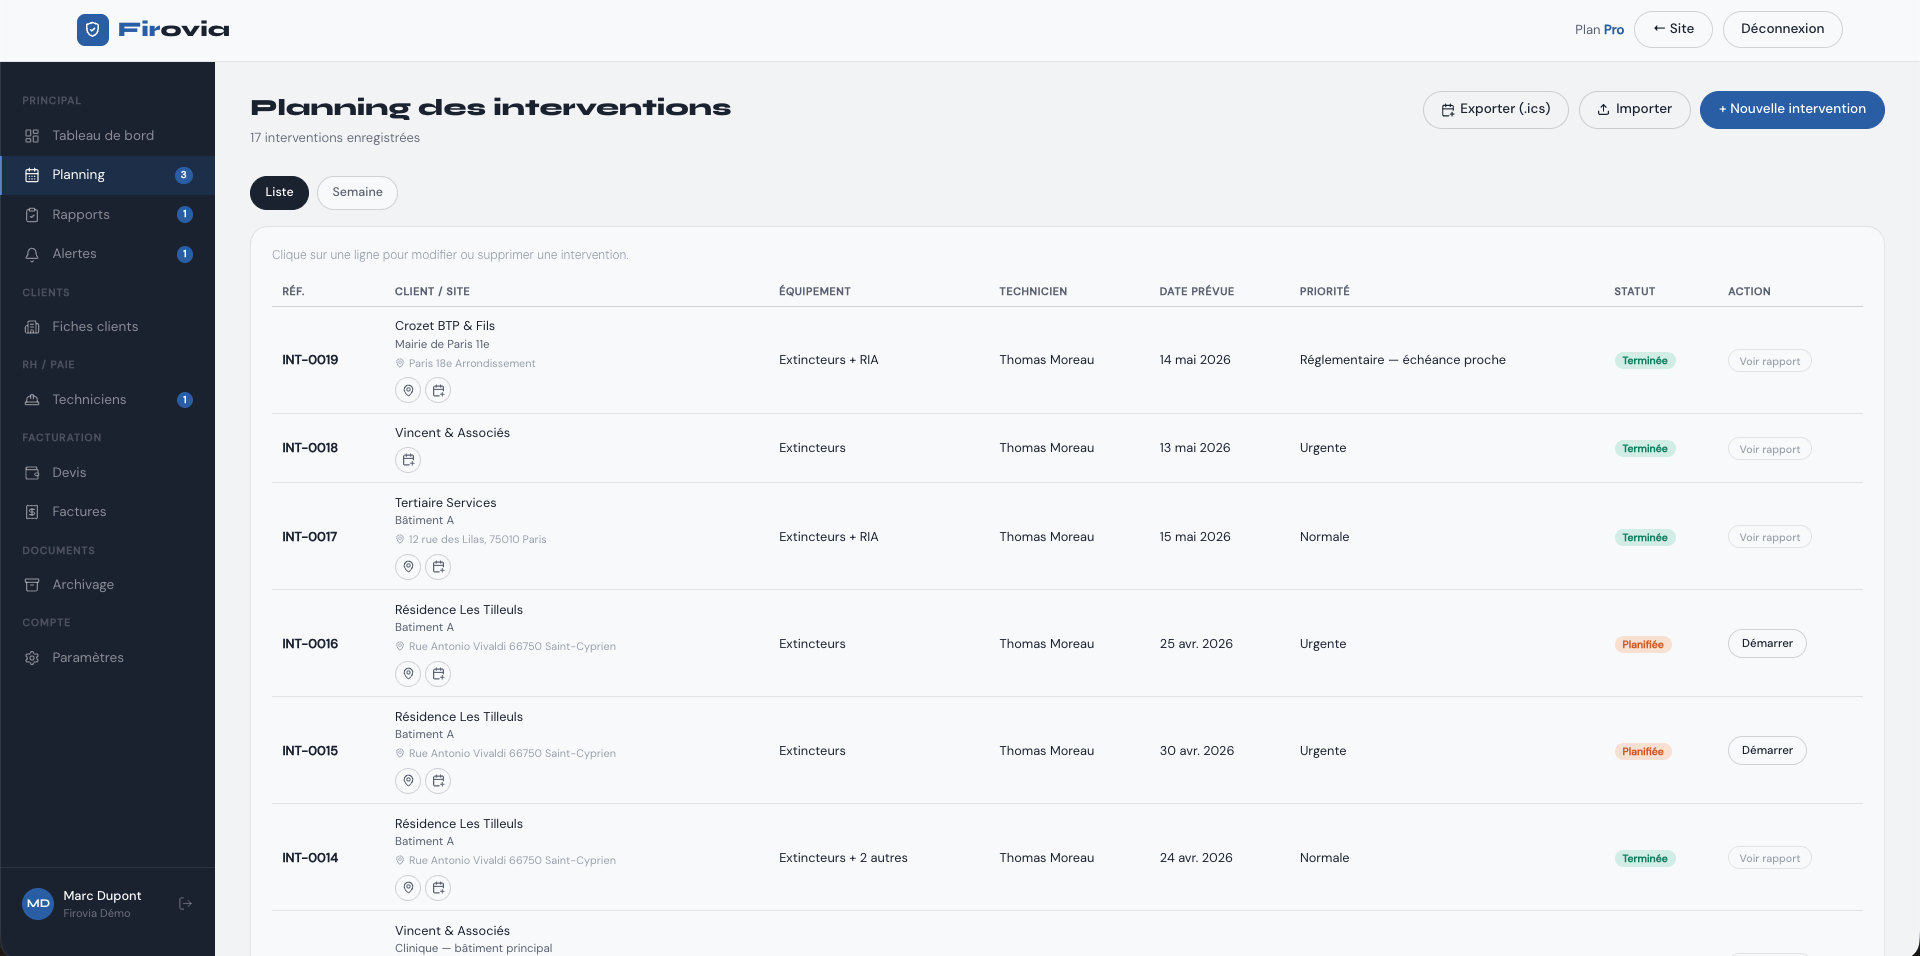
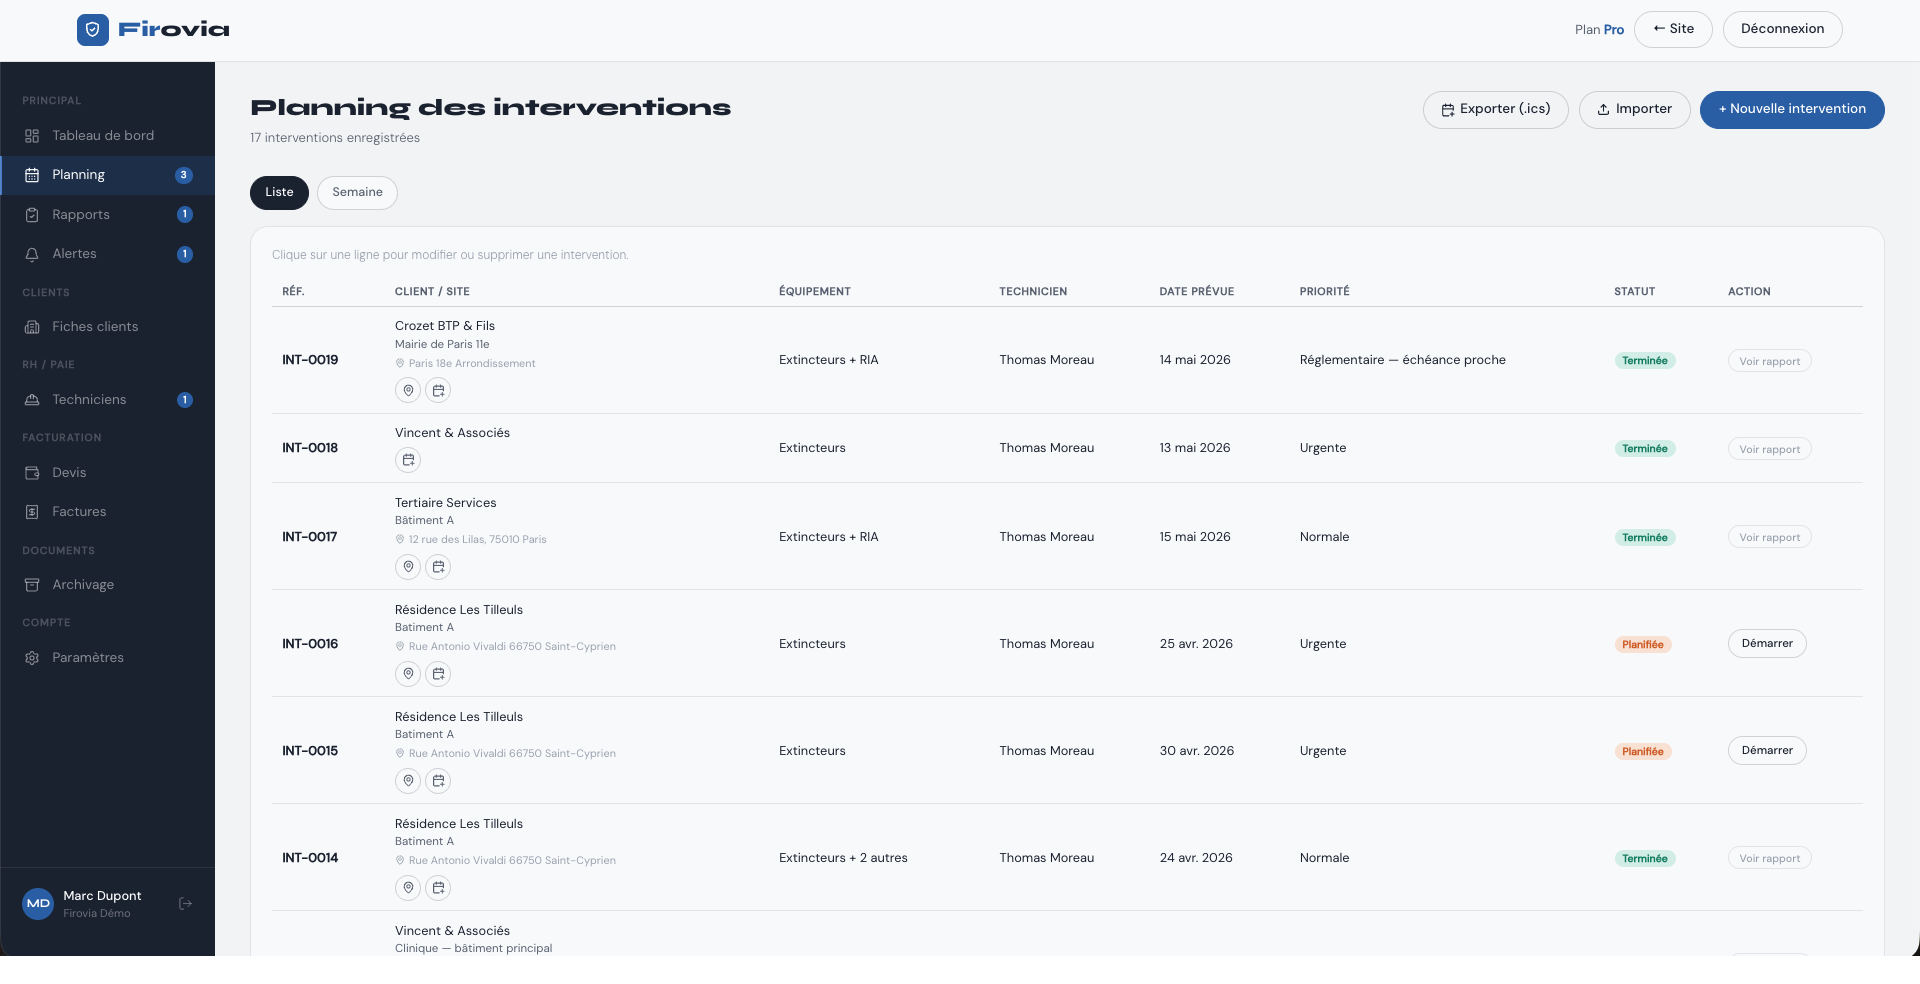
fix(vitrine): planning.png padded à 1920x984 pour uniformiser
PROBLÈME
planning.png faisait 1920x956 (28 pixels plus court que les autres
screenshots à 1920x984). Avec object-fit:contain ça créait des bandes
blanches visibles en haut et en bas dans le showcase.

FIX
- Padding planning.png en bas de 28 pixels blancs via Pillow
- Toutes les images sont maintenant à 1920x984 exact
- object-fit revient à 'cover' (plus besoin de contain, ratios alignés)
- Showcase 100% uniforme entre les 10 onglets

diff --git a/index.html b/index.html
@@ -70,7 +70,7 @@ body{padding-top:65px;}
 .screenshot-sec{padding:1rem 4% 3.5rem;background:var(--bg);}
 .screenshot-wrap{max-width:1200px;margin:0 auto;}
 .screenshot-frame{position:relative;border-radius:14px;overflow:hidden;box-shadow:0 28px 80px rgba(28,33,48,.18), 0 8px 20px rgba(28,33,48,.06);border:1px solid var(--brd);background:white;aspect-ratio:1920/984;}
-.showcase-img{width:100%;height:100%;display:block;position:absolute;top:0;left:0;opacity:0;transition:opacity .6s ease;pointer-events:none;object-fit:contain;background:white;}
+.showcase-img{width:100%;height:100%;display:block;position:absolute;top:0;left:0;opacity:0;transition:opacity .6s ease;pointer-events:none;object-fit:cover;}
 .showcase-img.active{opacity:1;}
 
 /* ── SHOWCASE TABS ── */
